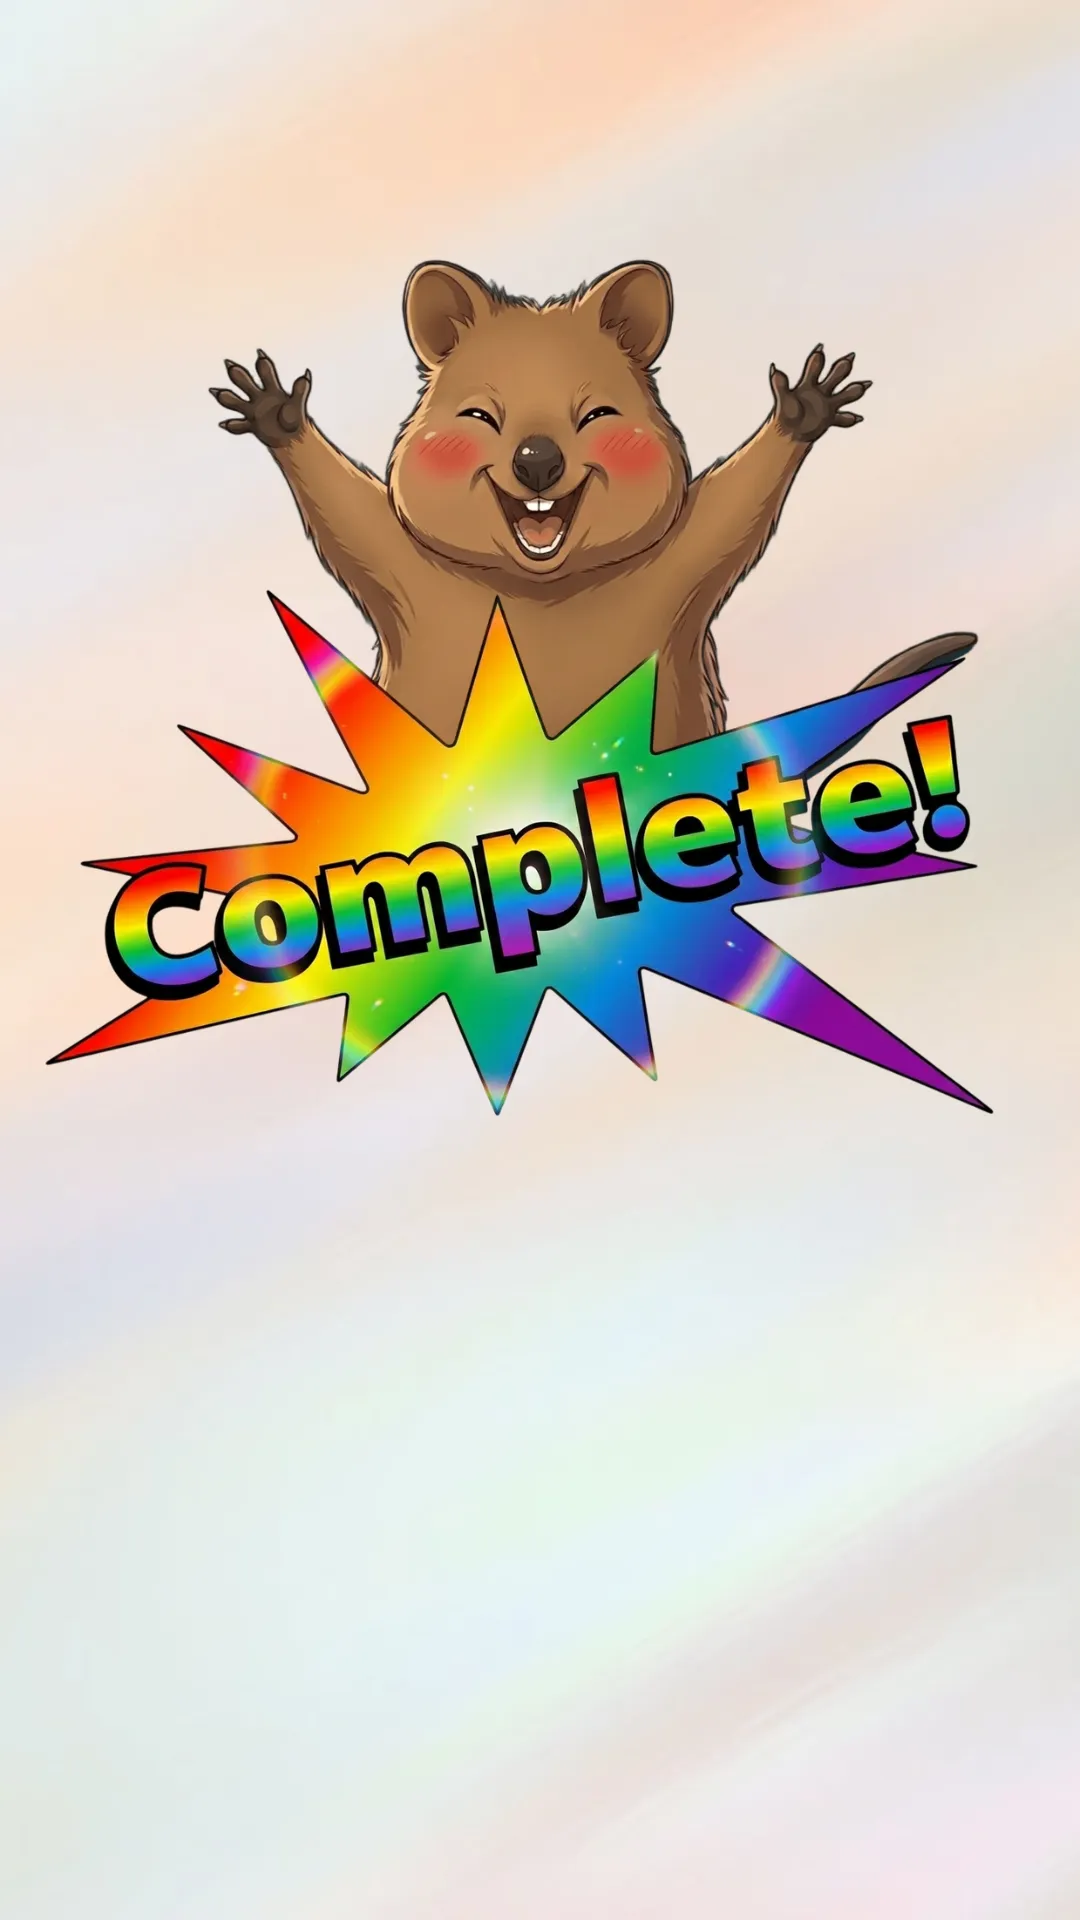
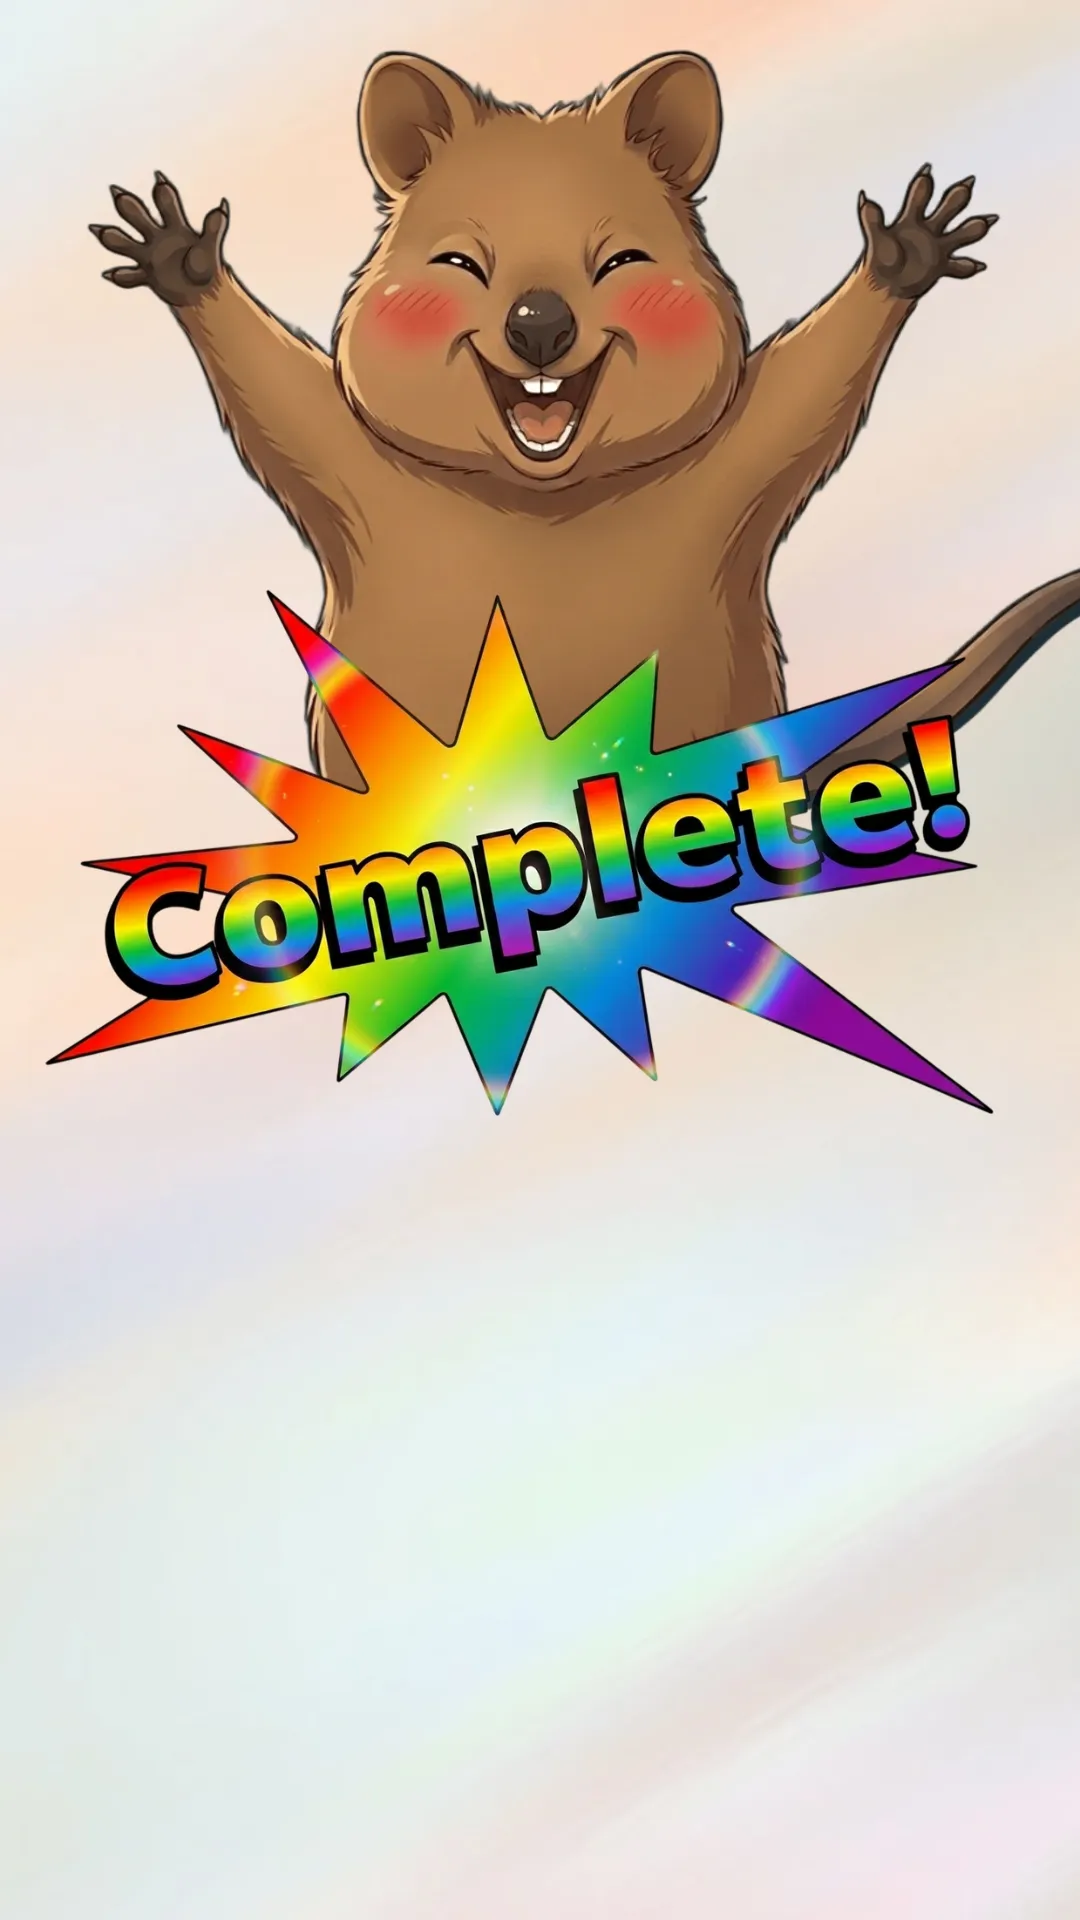
Refresh reward popup artwork set

Changed region(s): [[0.0917, 0.0, 0.9167, 0.4375], [0.7333, 0.2812, 1.0, 0.4375]]

diff --git a/service-worker.js b/service-worker.js
@@ -1,4 +1,4 @@
-const CACHE_VERSION = 'shopping-list-v24';
+const CACHE_VERSION = 'shopping-list-v25';
 const ASSETS_TO_CACHE = [
   './',
   './index.html',
